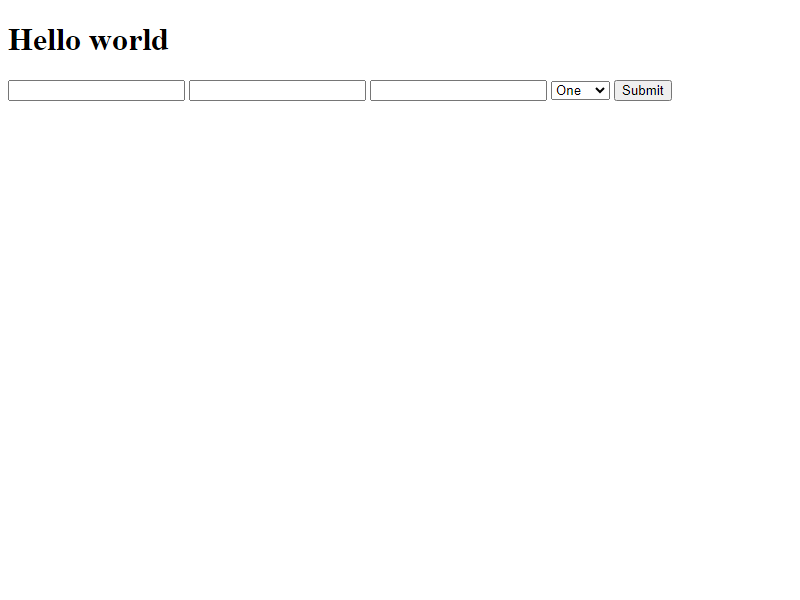
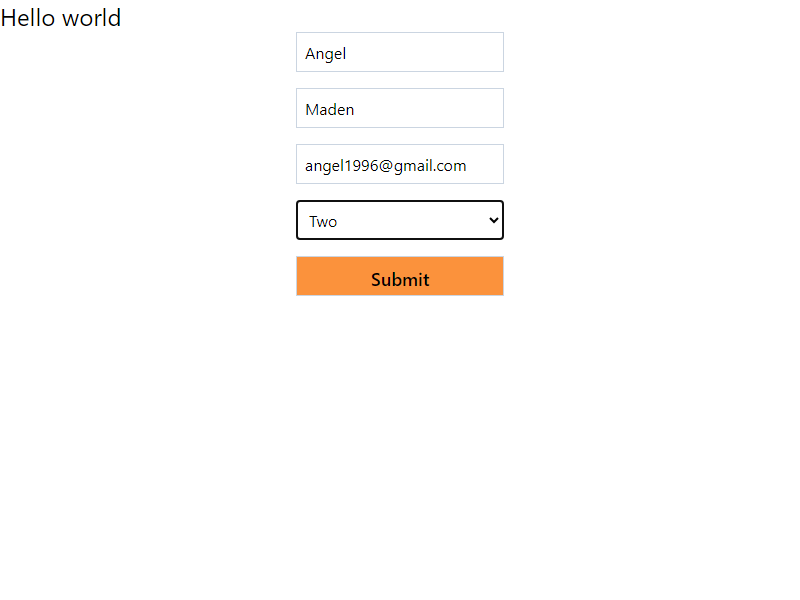
sample form for testing

diff --git a/index.html b/index.html
@@ -4,19 +4,22 @@
     <meta charset="UTF-8">
     <meta name="viewport" content="width=device-width, initial-scale=1.0">
     <title>Sample</title>
+    <script src="https://cdn.tailwindcss.com"></script>
 </head>
-<body>
-    <h1>Hello world</h1>
-    <form action="">
-        <input type="text" name="fname">
-        <input type="text" name="lname">
-        <input type="email" name="email">
-        <select name="select" id="select">
-            <option value="One">One</option>
-            <option value="Two">Two</option>
-            <option value="Three">Three</option>
-        </select>
-        <input type="submit" value="Submit">
-    </form>
+<body class=" flex flex-col justify-center items-center p-4 ">
+    <h1 class=" text-2xl p-2 ">Sample form</h1>
+    <div class=" flex justify-center items-center ">
+        <form action="" class=" flex flex-col w-96 gap-4 ">
+            <input type="text" name="fname" class=" border border-slate-300 h-10 p-2 " placeholder="First name">
+            <input type="text" name="lname" class=" border border-slate-300 h-10 p-2 " placeholder="Last name">
+            <input type="email" name="email" class=" border border-slate-300 h-10 p-2 " placeholder="Email address">
+            <select name="select" id="select" class=" border border-slate-300 h-10 p-2 " >
+                <option value="One">One</option>
+                <option value="Two">Two</option>
+                <option value="Three">Three</option>
+            </select>
+            <input type="submit" value="Submit" class="flex justify-center items-center outline-none bg-orange-400 h-10 p-2 cursor-pointer font-semibold text-lg  ">
+        </form>
+    </div>
 </body>
 </html>

diff --git a/addUser.py b/addUser.py
@@ -98,9 +98,9 @@ def action(fname_value,lname_value,email_value,status_value):
         else:
             print("Incorrect email address format.")
     try:
+        driver.save_screenshot("picture.png")
         submit_button.click()
         print("Submit button clicked!")
-        driver.save_screenshot("picture.png")
         driver.close()
     except:
         print("Some error. ")
